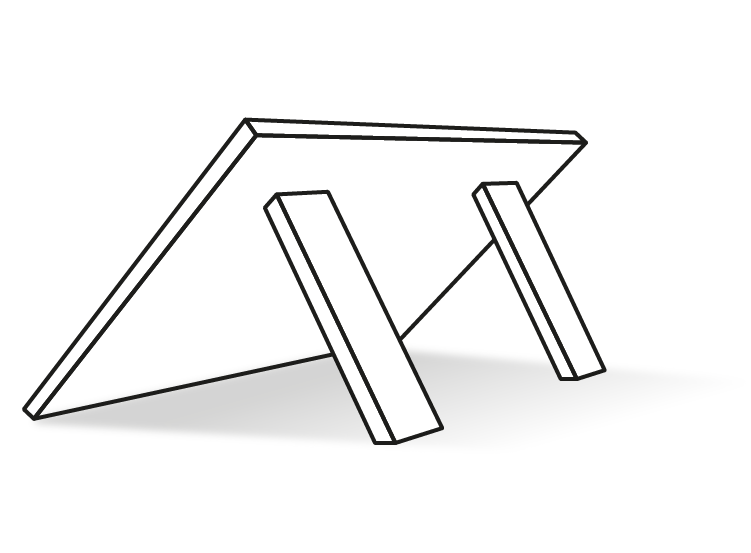
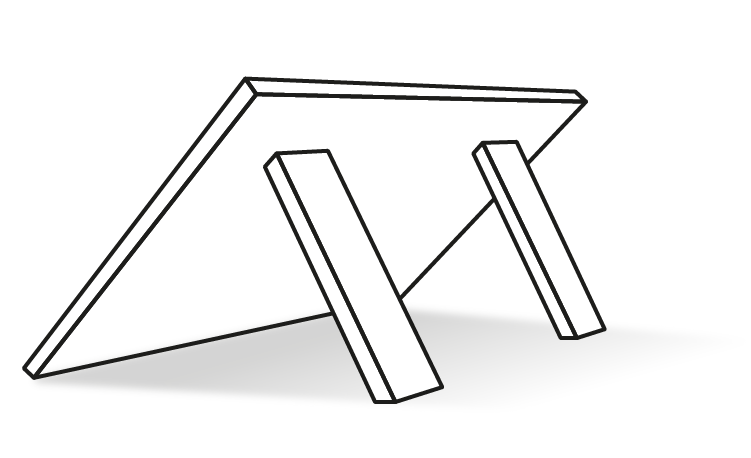
SelectMounting updated

Changed region(s): [[0.0306, 0.1528, 0.8269, 0.8865]]

diff --git a/src/components/Main/SelectOtherElements.scss b/src/components/Main/SelectOtherElements.scss
@@ -12,7 +12,9 @@
       margin-bottom: 20px;
     }
     .selectOther__img {
-      margin-bottom: 20px;
+      padding: 10px;
+      width: 70%;
+      margin: 0 auto;
       img {
         max-width: 100%;
         height: auto;
@@ -63,10 +65,10 @@
     .selectOther__container {
       width: 50%;
       .selectOther__img {
+        padding: 20px;
         img {
-          max-width: 300px;
+          max-width: 100%;
           height: auto;
-          margin: 0 auto;
           display: block;
         }
       }

diff --git a/src/components/Main/SelectMounting.scss b/src/components/Main/SelectMounting.scss
@@ -11,6 +11,7 @@
       font-size: 1rem;
     }
     .mounting__img {
+      padding: 20px;
       width: 70%;
       margin: 0 auto;
       input {
